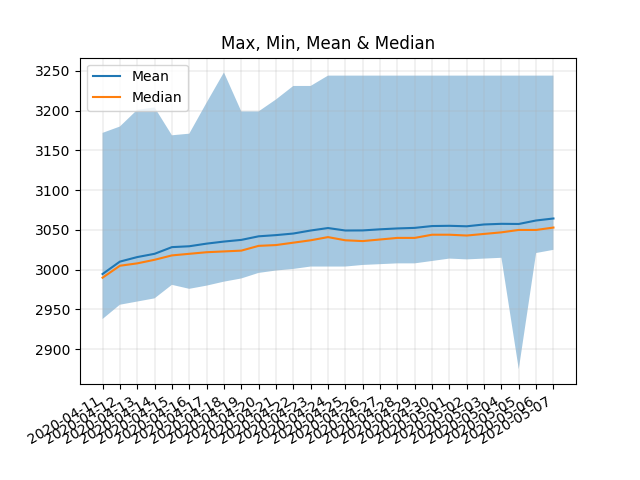
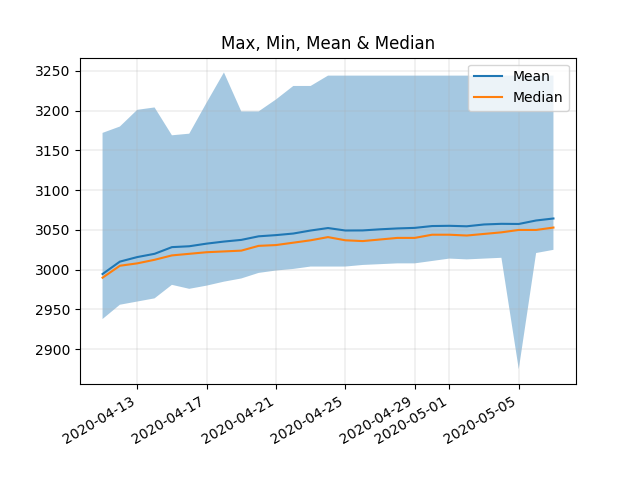
Thu May  7 17:26:02 EDT 2020

Changed region(s): [[0.0312, 0.8125, 0.875, 0.9375], [0.7188, 0.125, 0.875, 0.25], [0.125, 0.125, 0.2812, 0.25]]

diff --git a/README.md b/README.md
@@ -1,34 +1,34 @@
 # MMR Drift Status
 
-**Last Updated (UTC):** 2020-05-07 19:30:14.862066
+**Last Updated (UTC):** 2020-05-07 21:26:02.304995
 ![Figure 1](/images/fig1.png)
 ![Figure 2](/images/fig2.png)
 |date| min| max| mean| drift_daily| drift_total| median| stdev|
 |:---|:---|:---|:---|:---|:---|:---|:--- |
-|2020-05-07| 3025| 3244| 3064.4| 2.5| 69.8| 3053.0| 37.0|
-|2020-05-06| 3021| 3244| 3061.9| 4.3| 67.3| 3050.0| 37.5|
-|2020-05-05| 2875| 3244| 3057.5| -0.2| 62.9| 3050.0| 45.6|
-|2020-05-04| 3015| 3244| 3057.7| 0.8| 63.1| 3047.0| 38.5|
-|2020-05-03| 3014| 3244| 3056.9| 2.3| 62.3| 3045.0| 39.0|
-|2020-05-02| 3013| 3244| 3054.6| -0.6| 60.0| 3043.0| 37.8|
-|2020-05-01| 3014| 3244| 3055.2| 0.2| 60.6| 3044.0| 38.6|
-|2020-04-30| 3011| 3244| 3054.9| 2.4| 60.3| 3044.0| 39.5|
-|2020-04-29| 3008| 3244| 3052.6| 0.6| 57.9| 3040.0| 40.1|
-|2020-04-28| 3008| 3244| 3051.9| 1.1| 57.3| 3040.0| 39.3|
-|2020-04-27| 3007| 3244| 3050.8| 1.5| 56.2| 3038.0| 39.7|
-|2020-04-26| 3006| 3244| 3049.4| 0.1| 54.7| 3036.0| 40.5|
-|2020-04-25| 3004| 3244| 3049.3| -3.1| 54.7| 3037.0| 40.4|
-|2020-04-24| 3004| 3244| 3052.4| 3.0| 57.7| 3041.0| 44.1|
-|2020-04-23| 3004| 3231| 3049.3| 3.9| 54.7| 3037.0| 41.7|
-|2020-04-22| 3001| 3231| 3045.5| 2.0| 50.9| 3034.0| 41.0|
-|2020-04-21| 2999| 3214| 3043.5| 1.4| 48.8| 3031.0| 40.6|
-|2020-04-20| 2996| 3199| 3042.0| 4.5| 47.4| 3030.0| 39.5|
-|2020-04-19| 2989| 3199| 3037.5| 2.1| 42.9| 3024.0| 40.6|
-|2020-04-18| 2985| 3248| 3035.4| 2.7| 40.8| 3023.0| 41.6|
-|2020-04-17| 2980| 3210| 3032.8| 3.3| 38.2| 3022.0| 41.5|
-|2020-04-16| 2976| 3171| 3029.5| 1.1| 34.9| 3020.0| 40.6|
-|2020-04-15| 2981| 3169| 3028.4| 8.4| 33.8| 3018.0| 38.5|
-|2020-04-14| 2964| 3204| 3020.0| 4.1| 25.3| 3012.5| 41.2|
-|2020-04-13| 2960| 3201| 3015.9| 5.6| 21.2| 3008.0| 41.6|
-|2020-04-12| 2956| 3180| 3010.2| 15.6| 15.6| 3005.0| 40.0|
-|2020-04-11| 2938| 3172| 2994.6| 0| 0| 2990.0| 42.0|
+|07-May-2020| 3025| 3244| 3064.4| 2.5| 69.8| 3053.0| 37.0|
+|06-May-2020| 3021| 3244| 3061.9| 4.3| 67.3| 3050.0| 37.5|
+|05-May-2020| 2875| 3244| 3057.5| -0.2| 62.9| 3050.0| 45.6|
+|04-May-2020| 3015| 3244| 3057.7| 0.8| 63.1| 3047.0| 38.5|
+|03-May-2020| 3014| 3244| 3056.9| 2.3| 62.3| 3045.0| 39.0|
+|02-May-2020| 3013| 3244| 3054.6| -0.6| 60.0| 3043.0| 37.8|
+|01-May-2020| 3014| 3244| 3055.2| 0.2| 60.6| 3044.0| 38.6|
+|30-Apr-2020| 3011| 3244| 3054.9| 2.4| 60.3| 3044.0| 39.5|
+|29-Apr-2020| 3008| 3244| 3052.6| 0.6| 57.9| 3040.0| 40.1|
+|28-Apr-2020| 3008| 3244| 3051.9| 1.1| 57.3| 3040.0| 39.3|
+|27-Apr-2020| 3007| 3244| 3050.8| 1.5| 56.2| 3038.0| 39.7|
+|26-Apr-2020| 3006| 3244| 3049.4| 0.1| 54.7| 3036.0| 40.5|
+|25-Apr-2020| 3004| 3244| 3049.3| -3.1| 54.7| 3037.0| 40.4|
+|24-Apr-2020| 3004| 3244| 3052.4| 3.0| 57.7| 3041.0| 44.1|
+|23-Apr-2020| 3004| 3231| 3049.3| 3.9| 54.7| 3037.0| 41.7|
+|22-Apr-2020| 3001| 3231| 3045.5| 2.0| 50.9| 3034.0| 41.0|
+|21-Apr-2020| 2999| 3214| 3043.5| 1.4| 48.8| 3031.0| 40.6|
+|20-Apr-2020| 2996| 3199| 3042.0| 4.5| 47.4| 3030.0| 39.5|
+|19-Apr-2020| 2989| 3199| 3037.5| 2.1| 42.9| 3024.0| 40.6|
+|18-Apr-2020| 2985| 3248| 3035.4| 2.7| 40.8| 3023.0| 41.6|
+|17-Apr-2020| 2980| 3210| 3032.8| 3.3| 38.2| 3022.0| 41.5|
+|16-Apr-2020| 2976| 3171| 3029.5| 1.1| 34.9| 3020.0| 40.6|
+|15-Apr-2020| 2981| 3169| 3028.4| 8.4| 33.8| 3018.0| 38.5|
+|14-Apr-2020| 2964| 3204| 3020.0| 4.1| 25.3| 3012.5| 41.2|
+|13-Apr-2020| 2960| 3201| 3015.9| 5.6| 21.2| 3008.0| 41.6|
+|12-Apr-2020| 2956| 3180| 3010.2| 15.6| 15.6| 3005.0| 40.0|
+|11-Apr-2020| 2938| 3172| 2994.6| 0| 0| 2990.0| 42.0|
